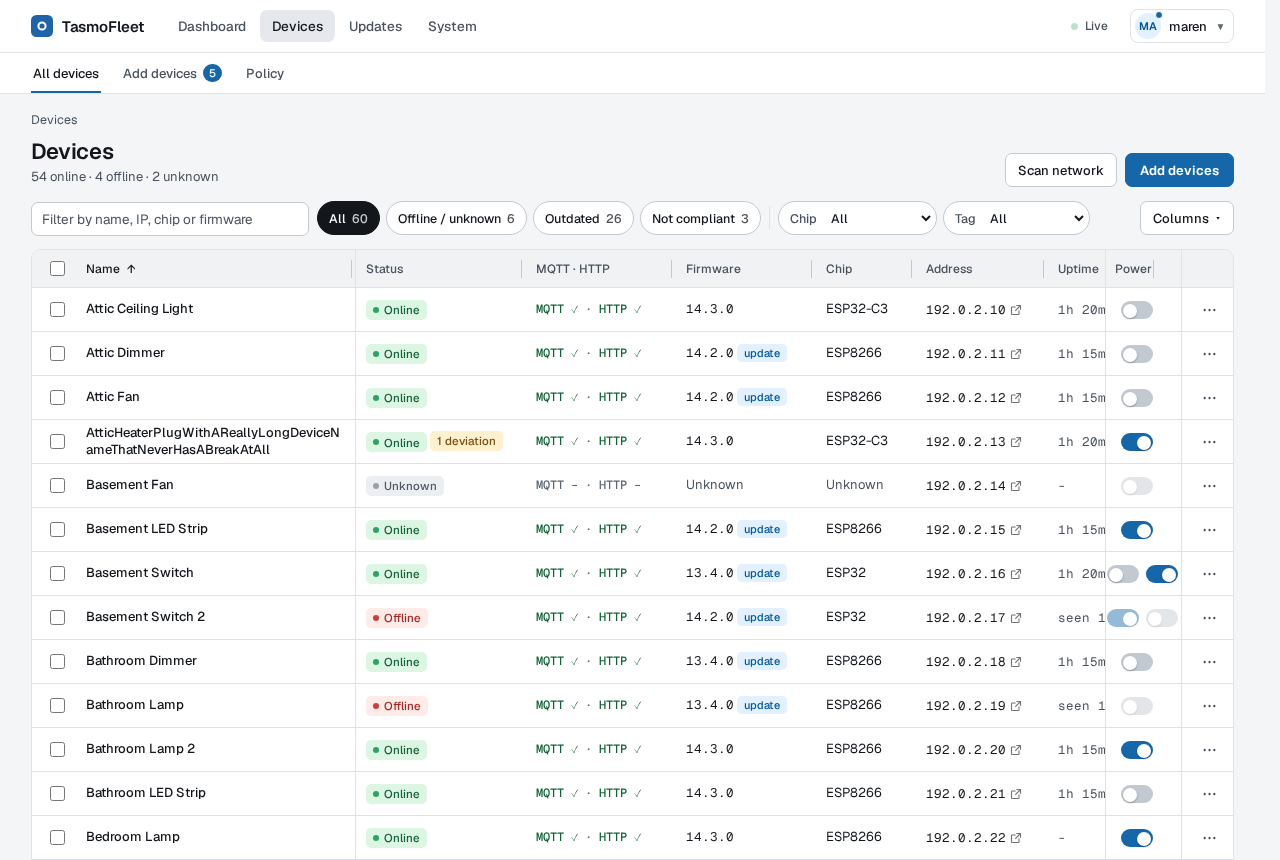
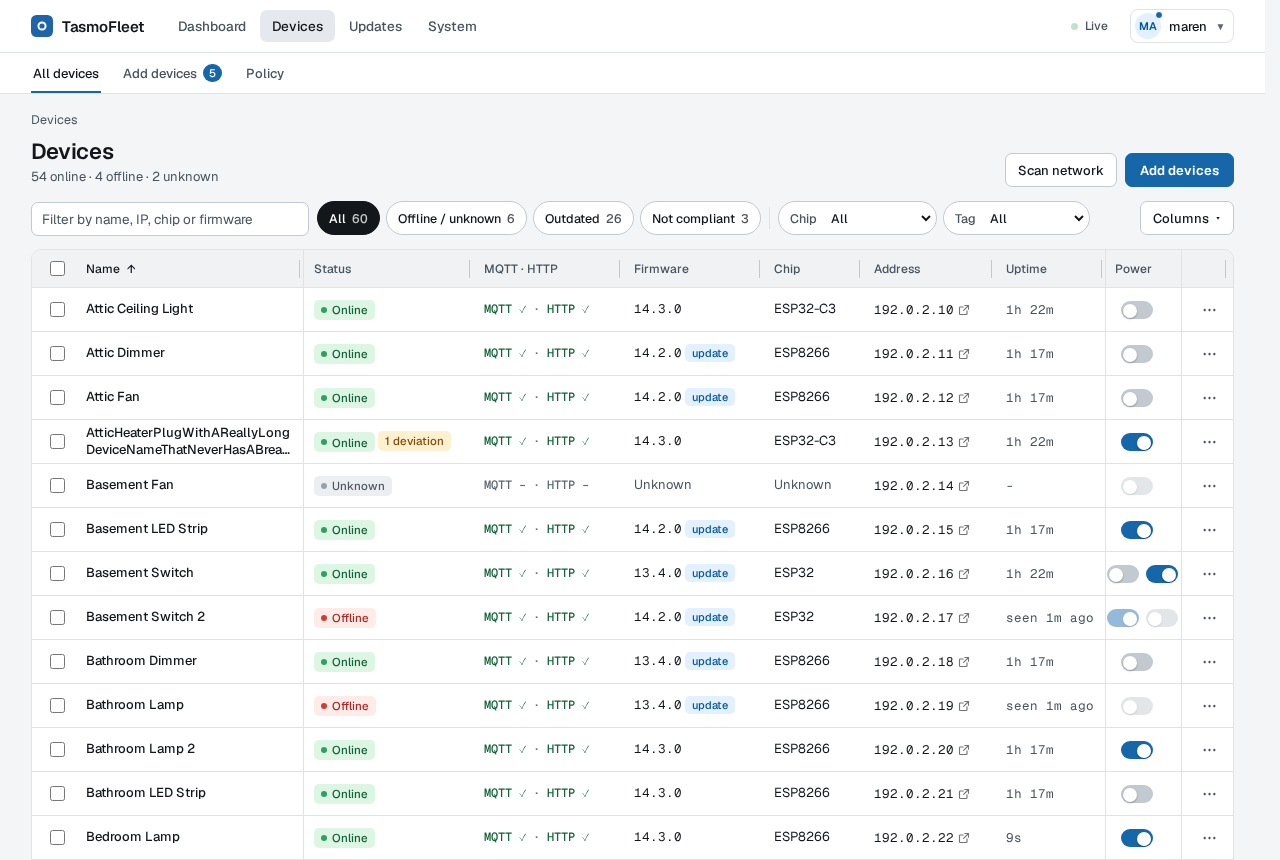
Device list: no scrolling column is cut in half by the pinned columns
At scroll 0 the right-pinned Power and Actions lay over the Uptime column and cut its
values ("seen 1"). cutAtPins (tables.js) makes the straddling column whole: the wide
columns before it give up the width it lacks, down to their content; with too little
slack the straddler is cut at the edge inside its own cell.

The e2e guard now measures every cell at scroll 0 against the pinned group and fails on
the previous build ("Uptime cut in half"). fleet.spec "update batch" looked once, 5 s
after the start, for the held state and failed twice in CI with "Online"; it reloads until
the engine has picked the job up. README devices.png regenerated.

diff --git a/internal/web/static/tables.js b/internal/web/static/tables.js
@@ -345,6 +345,110 @@
         col[i].style.width = Math.ceil(need[i]) + "px";
       }
     });
+    cutAtPins(table, c, col, th);
+  }
+
+  // At scroll 0 the columns pinned right lie over the columns that have not scrolled in yet. One
+  // column usually straddles their edge, half visible ("seen 1", an Uptime value touching the
+  // switches). It is made whole instead: the wide columns before it give up the width it lacks (down
+  // to a floor), so it ends where the pinned columns begin and the next one is wholly behind them.
+  // When they have too little to give, the straddler is cut at the edge inside its own cell.
+  function cutAtPins(table, c, col, th) {
+    var frame = table.parentElement;
+    if (
+      !frame ||
+      table.getBoundingClientRect().width <= frame.clientWidth + 1
+    ) {
+      return; // everything fits: nothing lies under a pinned column
+    }
+    var pinW = 0,
+      first = -1;
+    c.forEach(function (cd, i) {
+      if (cd.side === "r" && th[i]) {
+        pinW += th[i].getBoundingClientRect().width;
+        if (first < 0) {
+          first = i;
+        }
+      }
+    });
+    if (first < 0) {
+      return;
+    }
+    var edge = frame.clientWidth - pinW,
+      x0 = table.getBoundingClientRect().left,
+      s = -1;
+    for (var i = 0; i < first; i++) {
+      var r = th[i].getBoundingClientRect();
+      if (
+        c[i].side !== "l" &&
+        r.left - x0 < edge - 0.5 &&
+        r.right - x0 > edge + 0.5
+      ) {
+        s = i;
+        break;
+      }
+    }
+    if (s < 0) {
+      return;
+    }
+    var deficit = th[s].getBoundingClientRect().right - x0 - edge,
+      give = [],
+      cells = [],
+      at = [];
+    var rows = Array.prototype.filter.call(
+      table.querySelectorAll(":scope > tbody > tr"),
+      function (r) {
+        return r.cells.length === c.length;
+      },
+    );
+    // what a column can give: its width down to its content at its narrowest (the device name down to
+    // the prototype's minimum, it wraps), never its pinned-for-good neighbours' or the checkbox column
+    for (var j = 0; j < s; j++) {
+      if (c[j].id === "" || (c[j].side && !(c[j].fix && c[j].side === "l"))) {
+        continue;
+      }
+      at.push(j);
+      rows.forEach(function (r) {
+        cells.push(r.cells[j]);
+      });
+    }
+    var mins = minContents(
+      cells.concat(
+        at.map(function (j) {
+          return th[j];
+        }),
+      ),
+    );
+    at.forEach(function (j) {
+      var floor = c[j].fix ? NAME_MIN_PX : 0;
+      cells.forEach(function (cell, k) {
+        if (cell && cell.cellIndex === j) {
+          floor = Math.max(floor, mins[k]);
+        }
+      });
+      floor = Math.max(floor, mins[cells.length + at.indexOf(j)]);
+      var w = th[j].getBoundingClientRect().width;
+      give.push([j, w, Math.max(0, w - Math.ceil(floor))]);
+    });
+    var slack = give.reduce(function (a, g) {
+      return a + g[2];
+    }, 0);
+    if (slack >= deficit) {
+      // the widest columns give first, so the narrow ones keep their size
+      give.sort(function (a, b) {
+        return b[1] - a[1];
+      });
+      give.forEach(function (g) {
+        var take = Math.min(g[2], deficit);
+        deficit -= take;
+        if (take > 0) {
+          col[g[0]].style.width = Math.floor(g[1] - take) + "px";
+        }
+      });
+    } else {
+      var w2 = th[s].getBoundingClientRect().width;
+      col[s].style.width = Math.max(40, Math.floor(w2 - deficit)) + "px";
+    }
   }
 
   // widths of cells' content at its narrowest (min-content), in each cell's own font and

diff --git a/e2e/tests/pinned-overlap.spec.ts b/e2e/tests/pinned-overlap.spec.ts
@@ -87,7 +87,31 @@ async function overlaps(page: Page): Promise<string[]> {
         });
       }
     }
+    // What the user sees first (scroll 0): the right pins lie over the columns that have not scrolled in
+    // yet. A column may be wholly under them (the table scrolls, the rest is reachable) but never cut
+    // in half: "seen 1" and a toggle beside half an Uptime value read as an overlap.
     scroller.scrollLeft = 0;
+    const frame = scroller.getBoundingClientRect();
+    const scrolls = scroller.scrollWidth > scroller.clientWidth + 1;
+    for (const row of t.querySelectorAll<HTMLTableRowElement>("thead tr, tbody tr")) {
+      const cells = [...row.cells] as HTMLElement[];
+      if (cells.length < side.size) continue;
+      // the pinned-right group begins at its leftmost cell and reaches the frame's edge
+      const pins = cells.filter((_, j) => side.get(j) === "r");
+      if (!pins.length) continue;
+      const from = Math.min(...pins.map((p) => p.getBoundingClientRect().left));
+      cells.forEach((c, i) => {
+        if (side.has(i) || hidden(c)) return;
+        const own = c.getBoundingClientRect();
+        // only what lies inside the frame is seen at all
+        const seen = Math.min(own.right, frame.right) - Math.max(own.left, frame.left);
+        const under = Math.min(own.right, frame.right) - Math.max(own.left, from);
+        if (seen <= 0.5 || under <= 0.5) return;
+        const what = `${row.parentElement!.tagName.toLowerCase()} ${c.dataset.label ?? i} (${Math.round(own.left)}-${Math.round(own.right)}) under the pinned columns from ${Math.round(from)}`;
+        if (!scrolls) out.push(`${what}, although the table does not scroll`);
+        else if (under < seen - 0.5) out.push(`${what}: cut in half`);
+      });
+    }
     return [...new Set(out)];
   });
 }

diff --git a/e2e/tests/fleet.spec.ts b/e2e/tests/fleet.spec.ts
@@ -235,7 +235,17 @@ test("update batch: preview, staged ESP8266 and direct ESP32 succeed, unknown ch
   await second.setExtraHTTPHeaders(operator);
   await second.goto(app.url + "/devices");
   await second.getByRole("link", { name: "lamp-1m", exact: true }).click();
-  await expect(second.locator(".devhd-state")).toHaveText("Updating");
+  // The hold starts when the engine picks the job up, which on a loaded runner can take longer than the
+  // page needs to load: reload until it shows (a single 5 s look failed twice in CI with "Online").
+  await expect
+    .poll(
+      async () => {
+        await second.reload();
+        return second.locator(".devhd-state").textContent();
+      },
+      { timeout: 60_000, intervals: [1_000] },
+    )
+    .toBe("Updating");
   const consoleTab = second.locator("nav.utabs [aria-disabled=true]", { hasText: "Console" });
   await expect(consoleTab, "the tab stays, disabled, with the reason as its title").toHaveAttribute("title", /Unavailable while/);
   await expect(second.getByRole("button", { name: "Back up", exact: true }), "nothing that needs the device is offered while it is held").toBeDisabled();

diff --git a/CHANGELOG.md b/CHANGELOG.md
@@ -32,7 +32,9 @@ always upgrade automatically.
 - Device list at the default layout: a device with two relays had two Power switches in a column narrower than
   both, so the second was cut off and an ellipsis showed between them. Pinned columns now always get the width of
   their content, also without a saved layout (the 0.10.1 guarantee), and the offsets are measured again once the
-  fonts are loaded. An e2e check keeps pinned columns from clipping or covering content.
+  fonts are loaded. The columns pinned to the right no longer cut a scrolling column in half at the
+  start of the scroll range (Uptime read "seen 1"): the wide columns before it give up the missing width, so it ends
+  where the pinned columns begin. An e2e check keeps pinned columns from clipping or covering content.
 - README quick start: the first sign-in used `docker exec tasmofleet cat /data/initial-admin-password`, which fails
   (the image has no shell tools); it now uses the setup link from the container log.
 
